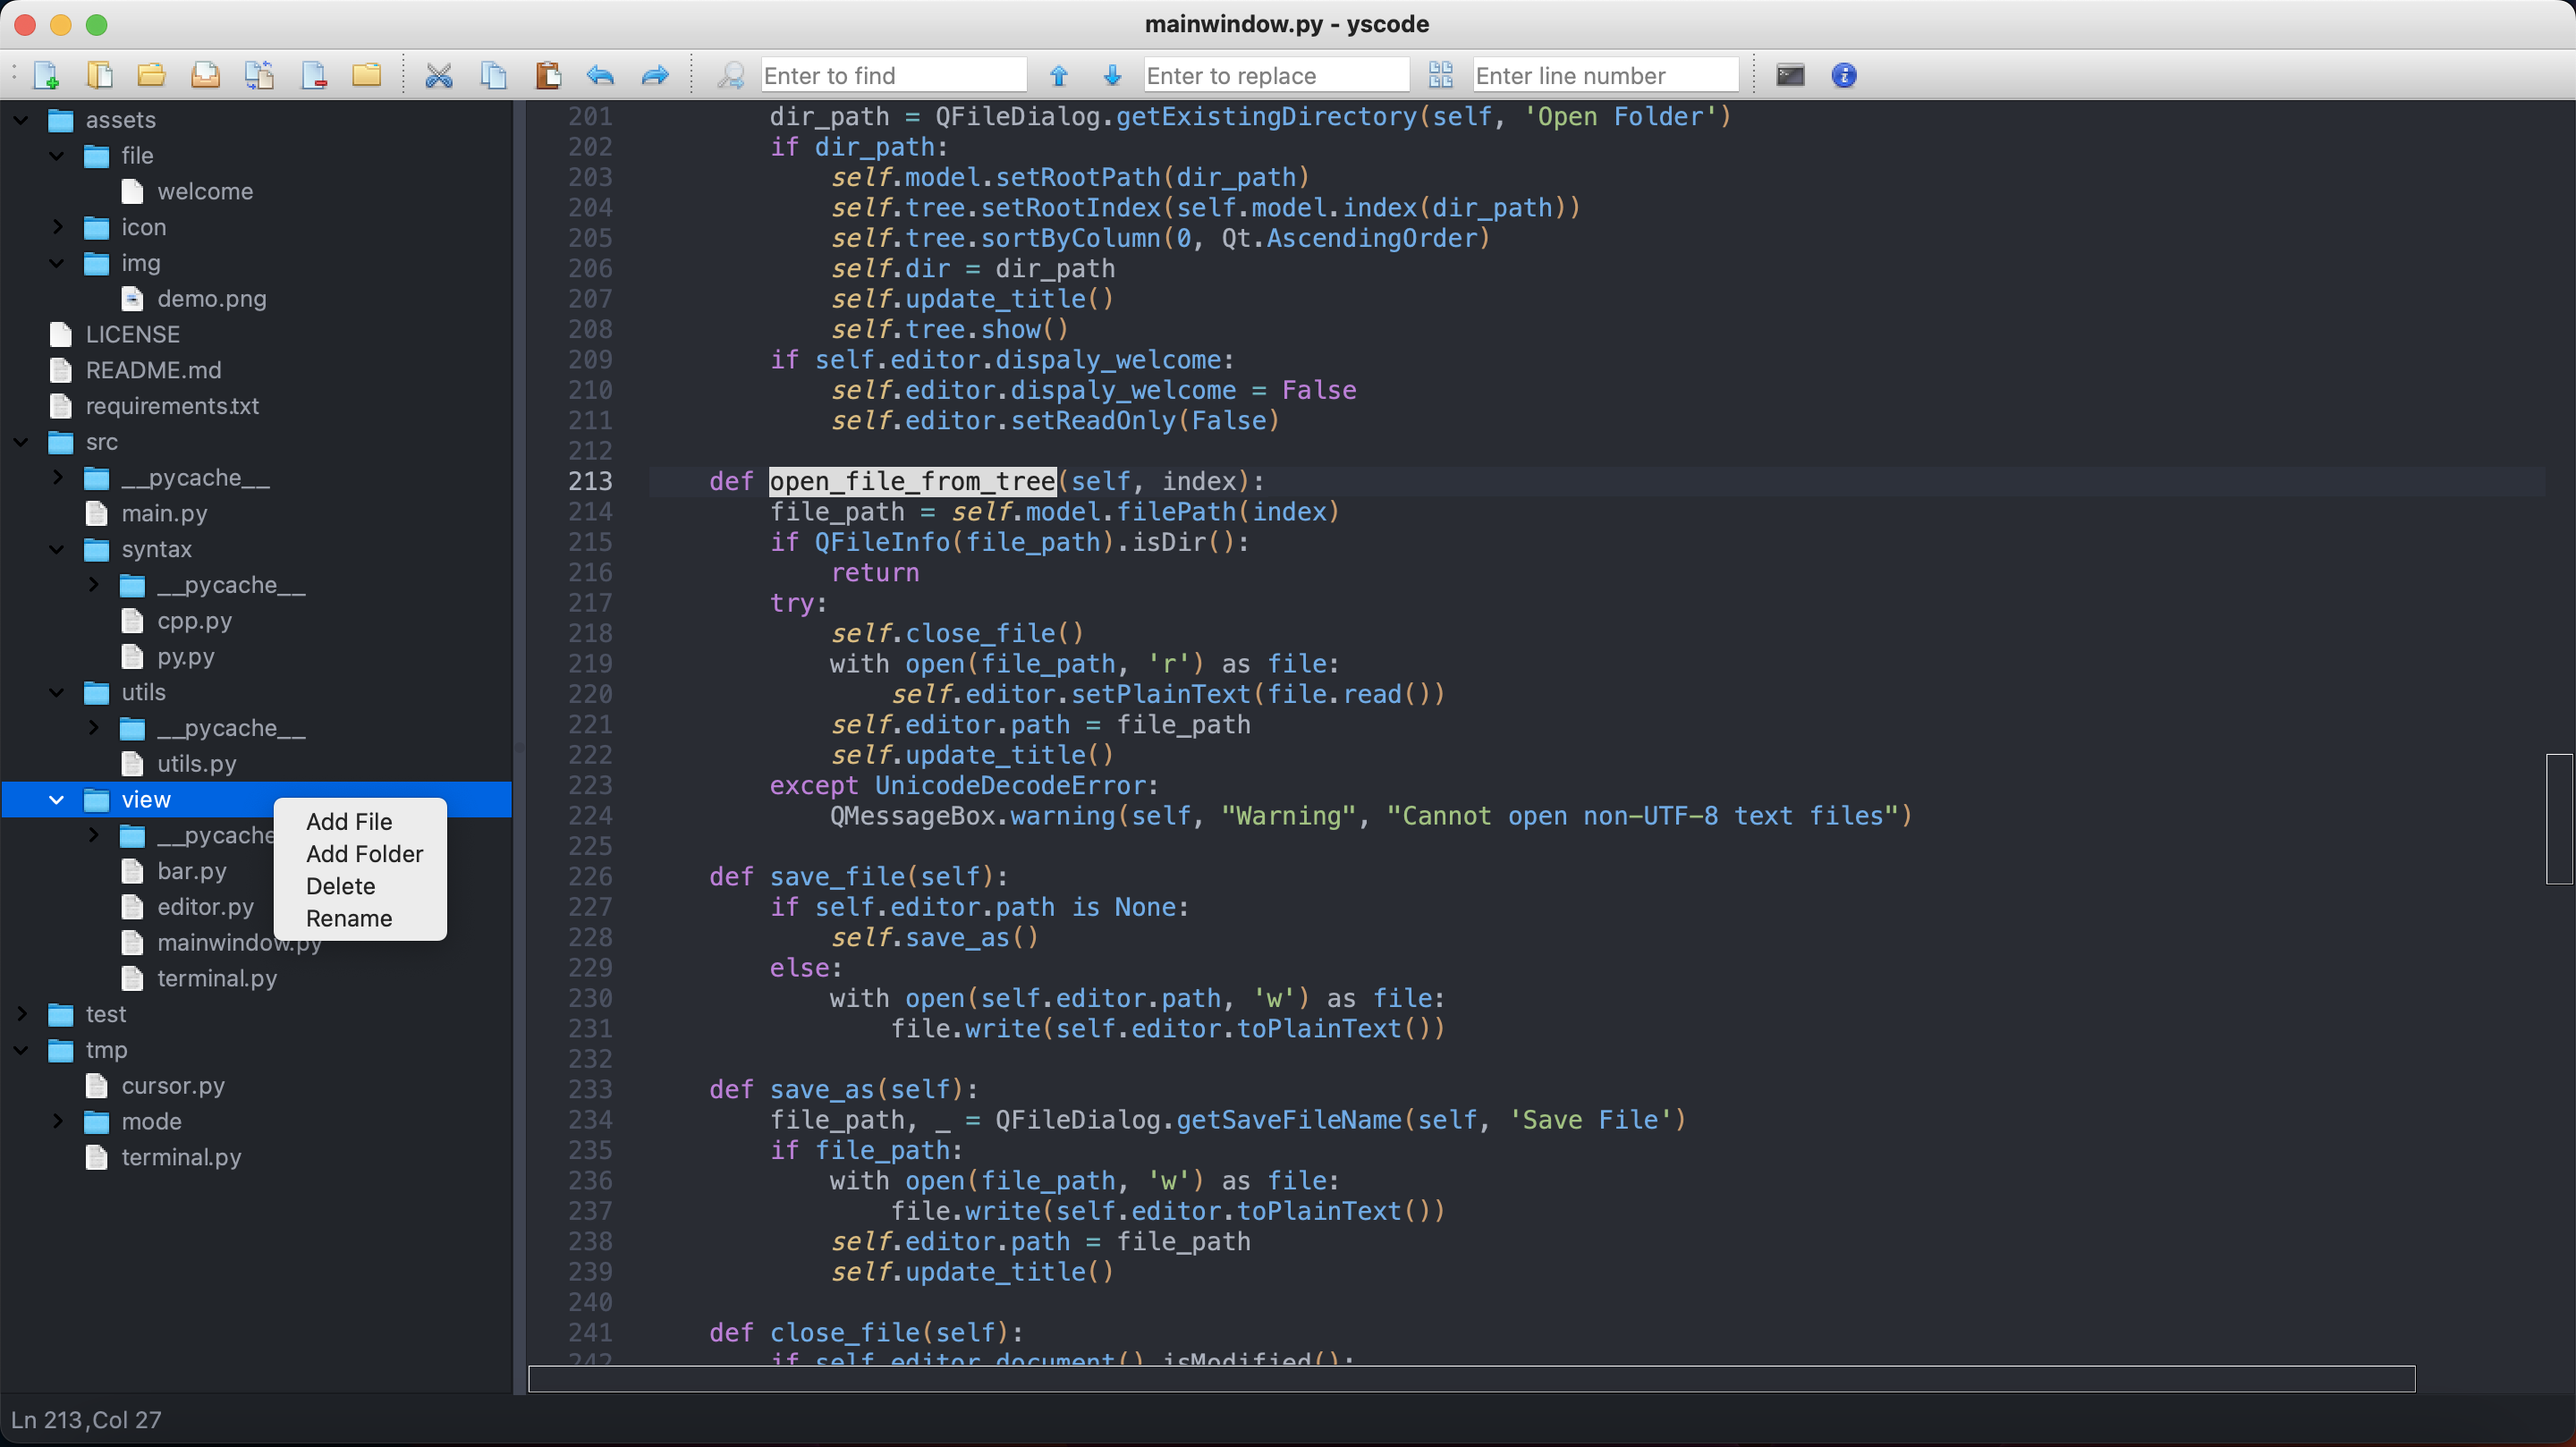
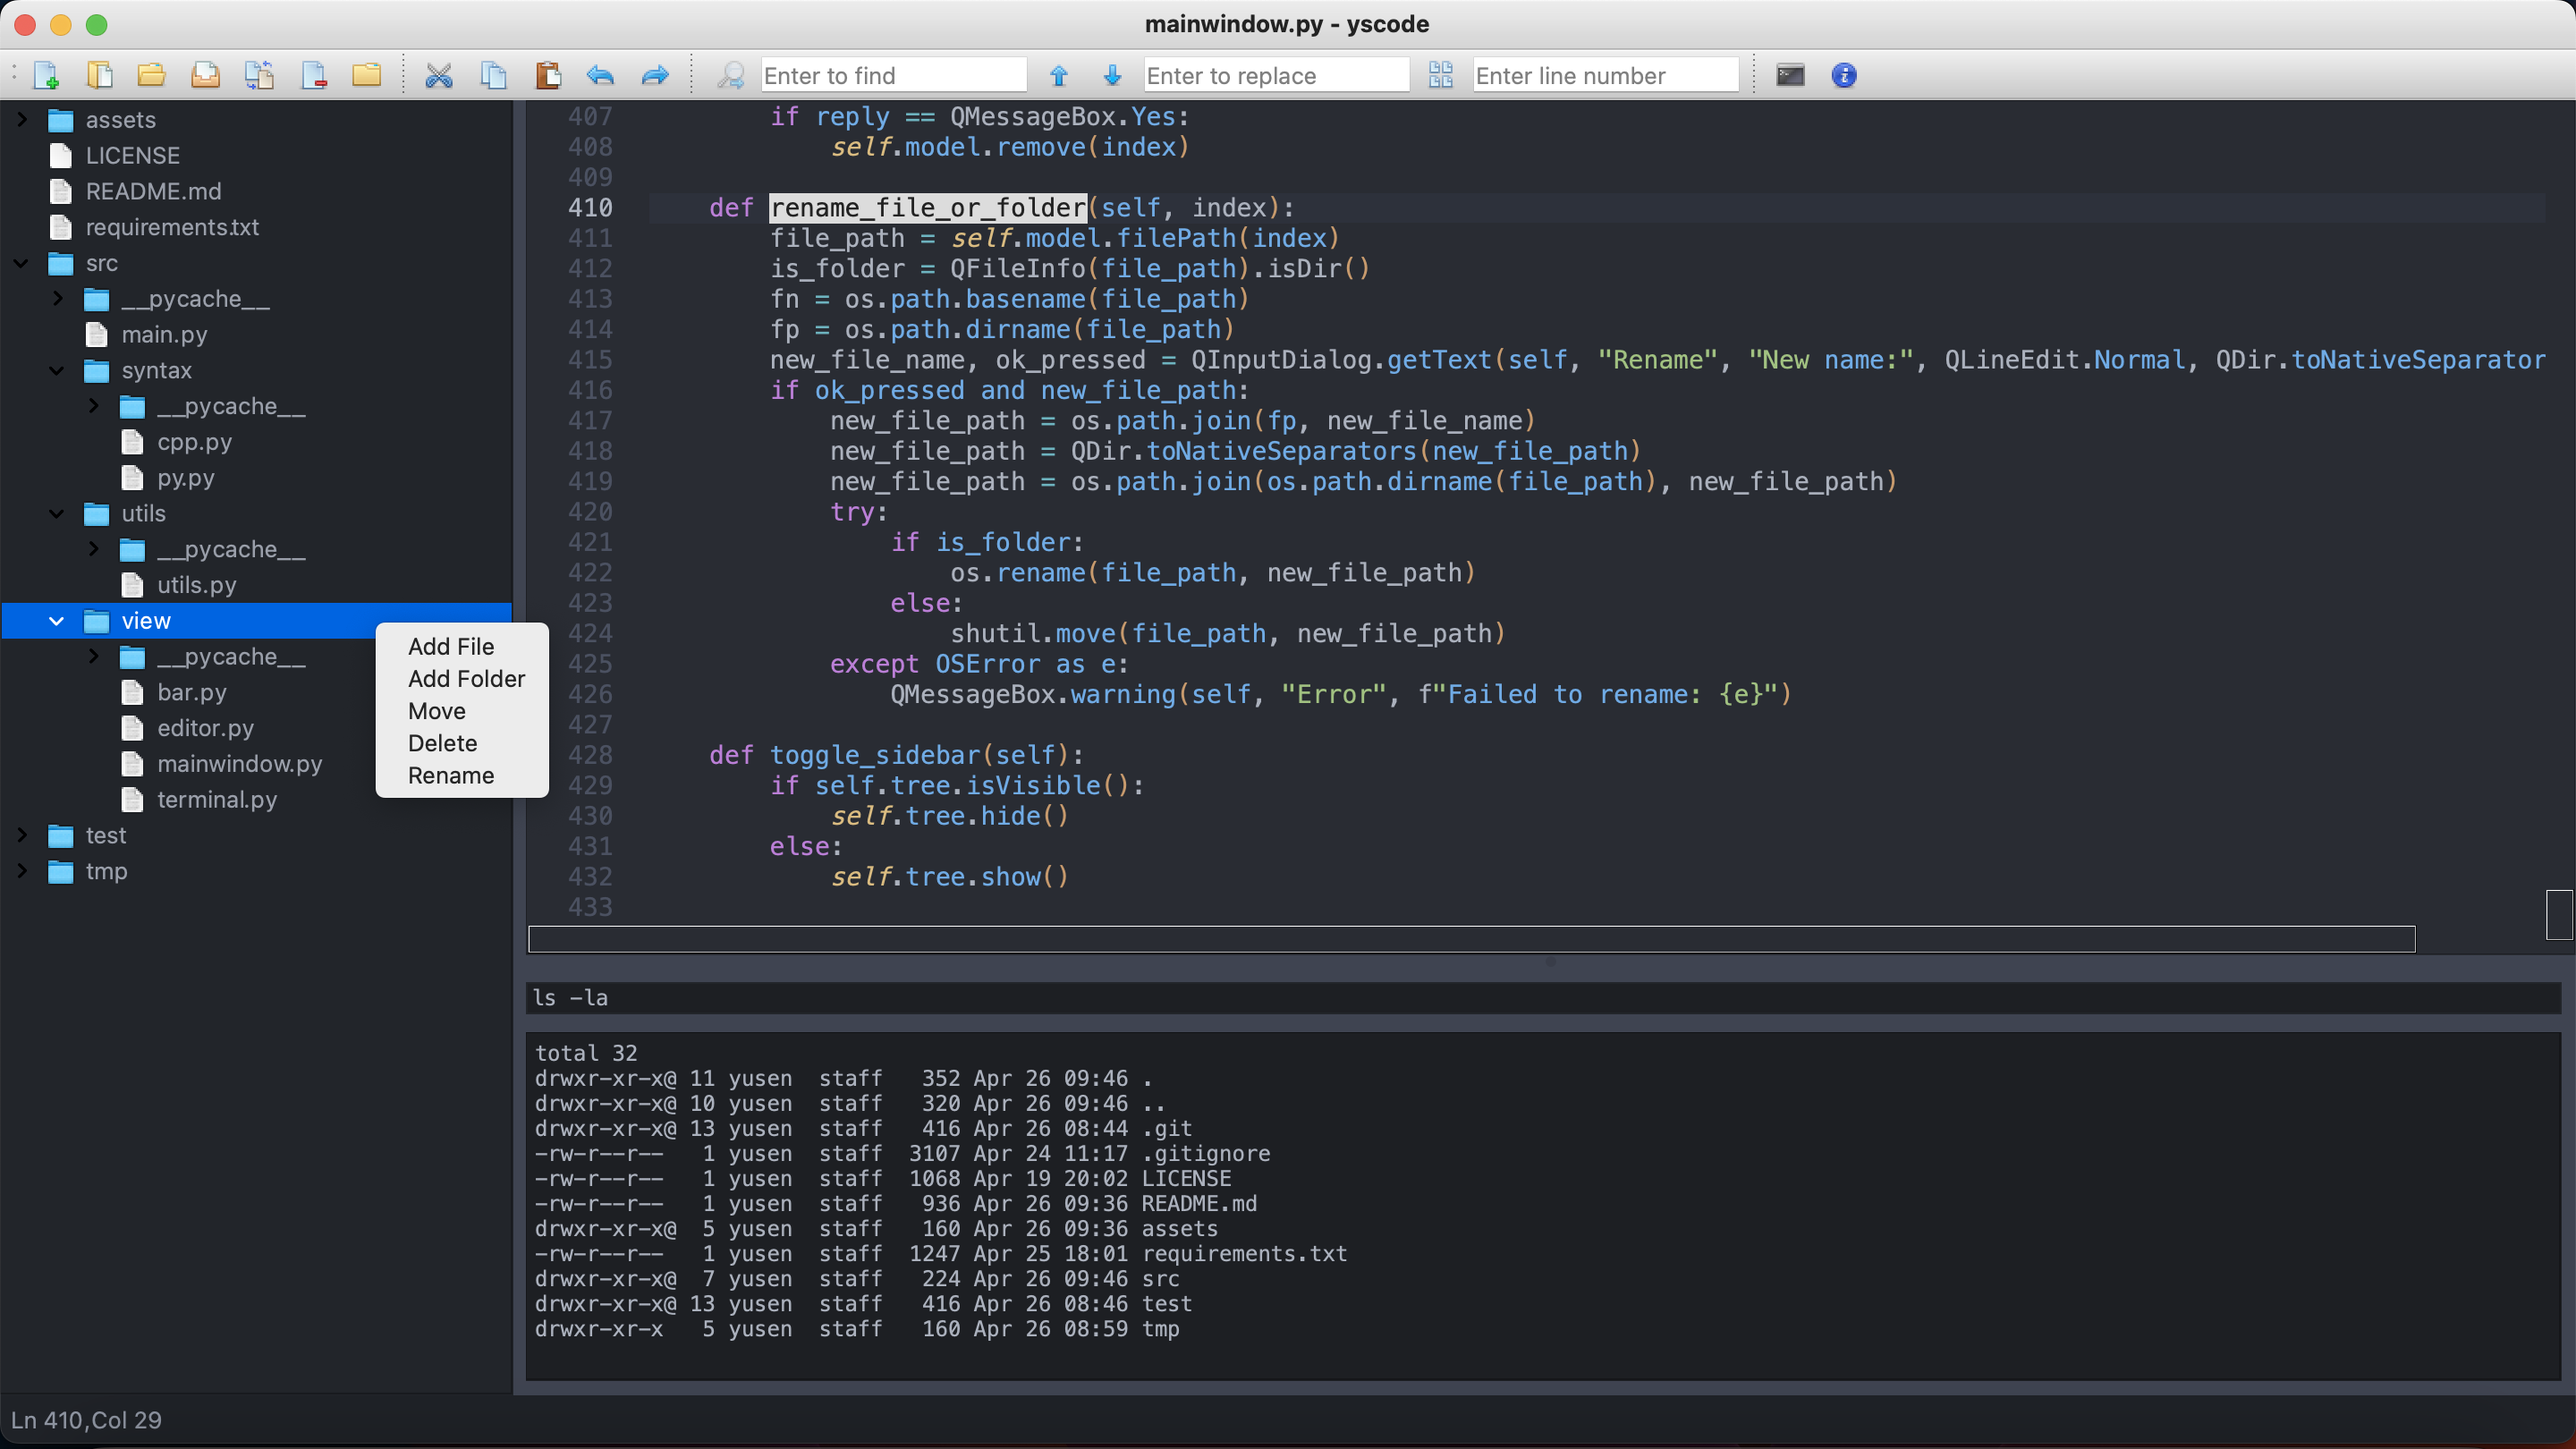
add terminal

diff --git a/src/view/mainwindow.py b/src/view/mainwindow.py
@@ -5,6 +5,7 @@ from PyQt5.QtCore import QProcess, Qt, QFileInfo, QDir
 import shutil
 from view.editor import Editor
 from view.bar import ToolBar
+from view.terminal import Terminal
 from utils.utils import log
 from syntax.py import Highlighter as PythonHighlighter
 
@@ -14,12 +15,12 @@ class MainWindow(QMainWindow):
         super().__init__()
         self.splitter = QSplitter()
         self.editor = Editor()
+        self.terminal = Terminal()
         self.hightlighter = PythonHighlighter(self.editor.document())
         self.dir = None
         self.find_bar = QLineEdit(self)
         self.replace_bar = QLineEdit(self)
         self.jump_bar = QLineEdit(self)
-        self.process = QProcess(self) # TODO
         self.model = QFileSystemModel()
         self.model.setRootPath('')
         self.tree = QTreeView()
@@ -37,9 +38,6 @@ class MainWindow(QMainWindow):
         self.tree.doubleClicked.connect(self.open_file_from_tree)
         self.tree.setContextMenuPolicy(Qt.CustomContextMenu)
         self.tree.customContextMenuRequested.connect(self.show_tree_menu)
-        # self.process.readyReadStandardOutput.connect(self.read_output)
-        # self.process.readyReadStandardError.connect(self.read_error)
-        # self.process.finished.connect(self.process_finished)
 
     def initUI(self):
         # self.setGeometry(100, 100, 600, 400)
@@ -74,10 +72,19 @@ class MainWindow(QMainWindow):
         self.tree.setColumnHidden(2, True)
         self.tree.setColumnHidden(3, True)
 
-        self.splitter.addWidget(self.tree)
-        self.splitter.addWidget(self.editor)
+        splitter1 = QSplitter()
+        splitter1.addWidget(self.tree)
+        splitter2 = QSplitter()
+        splitter2.addWidget(self.editor)
+        splitter2.addWidget(self.terminal)
+        splitter2.setOrientation(Qt.Vertical)
+        splitter2.setSizes([self.height() * (2/3), self.height() * (1/3)])
+
+        self.splitter.addWidget(splitter1)
+        self.splitter.addWidget(splitter2)
         self.splitter.setSizes([self.width() * 0.2, self.width() * 0.8])
         self.tree.hide()
+        self.terminal.hide()
 
     def set_menu(self):
         menu = self.menuBar()
@@ -146,6 +153,11 @@ class MainWindow(QMainWindow):
         toggle_sidebar_action.setShortcut("Ctrl+B")
         view_menu.addAction(toggle_sidebar_action)
         toggle_sidebar_action.triggered.connect(self.toggle_sidebar)
+
+        toggle_terminal_action = QAction("Toggle Terminal", self)
+        toggle_terminal_action.setShortcut("Ctrl+T")
+        view_menu.addAction(toggle_terminal_action)
+        toggle_terminal_action.triggered.connect(self.toggle_terminal)
 
         zoom_in_action = QAction("Zoom In", self)
         zoom_in_action.setShortcut("Ctrl++")
@@ -419,5 +431,8 @@ class MainWindow(QMainWindow):
         else:
             self.tree.show()
 
-    def show_terminal(self): # TODO
-        self.process.start("terminal")
+    def toggle_terminal(self):
+        if self.terminal.isVisible():
+            self.terminal.hide()
+        else:
+            self.terminal.show()

diff --git a/src/view/terminal.py b/src/view/terminal.py
@@ -1,0 +1,57 @@
+from PyQt5.QtWidgets import QApplication, QWidget, QVBoxLayout, QHBoxLayout, QLineEdit, QPushButton, QTextEdit
+from PyQt5.QtGui import QFont
+import subprocess
+
+class Terminal(QWidget):
+    def __init__(self):
+        super().__init__()
+        self.command_input = QLineEdit()
+        self.output_text = QTextEdit()
+
+        input_layout = QHBoxLayout()
+        input_layout.addWidget(self.command_input)
+
+        main_layout = QVBoxLayout()
+        main_layout.addLayout(input_layout)
+        main_layout.addWidget(self.output_text)
+
+        char_width = self.fontMetrics().averageCharWidth()
+        main_layout.setContentsMargins(0, char_width, char_width, char_width)
+
+        self.setLayout(main_layout)
+        self.initUI()
+        
+        self.command_input.returnPressed.connect(self.run_command)
+
+    def initUI(self):
+        font = QFont("Consolas", 12)
+        font.setStyleHint(QFont.Monospace)
+        font.setFixedPitch(True)
+        self.command_input.setFont(font)
+        self.output_text.setFont(font)
+        self.output_text.setLineWrapMode(QTextEdit.NoWrap)
+        self.command_input.setStyleSheet("background-color: rgb(29, 31, 35);\
+            color: rgb(171, 177, 189);\
+            border: 1px solid rgb(34, 37, 42);")
+        self.output_text.setStyleSheet("background-color: rgb(29, 31, 35);\
+            color: rgb(171, 177, 189);")
+        self.command_input.setPlaceholderText("Enter command here...")
+        self.output_text.setReadOnly(True)
+
+    def run_command(self):
+        command = self.command_input.text()
+        self.output_text.setText("Working...")
+
+        try:
+            result = subprocess.run(command, shell=True, stdout=subprocess.PIPE, stderr=subprocess.PIPE, check=True, text=True)
+            output = result.stdout + result.stderr
+        except subprocess.CalledProcessError as e:
+            output = e.stderr
+
+        self.output_text.setText(output)
+
+if __name__ == "__main__":
+    app = QApplication([])
+    terminal = Terminal()
+    terminal.show()
+    app.exec_()

diff --git a/src/view/bar.py b/src/view/bar.py
@@ -120,7 +120,7 @@ class ToolBar(QToolBar):
 
         button_terminal = QAction(QIcon("./assets/icon/terminal"), "Terminal", self)
         button_terminal.setStatusTip("Open Terminal")
-        button_terminal.triggered.connect(wd.show_terminal)
+        button_terminal.triggered.connect(wd.toggle_terminal)
         self.addAction(button_terminal)
 
         button_info = QAction(QIcon("./assets/icon/info"), "Info", self)

diff --git a/README.md b/README.md
@@ -29,7 +29,7 @@ TODO
 - [x] Toolbar
 - [x] Find and Replace
 - [ ] Syntax Highlighting
-- [ ] Add Terminal
+- [x] Add Terminal
 - [x] File Tree
 - [x] Right Click Menu
 - [x] Auto Indentation
